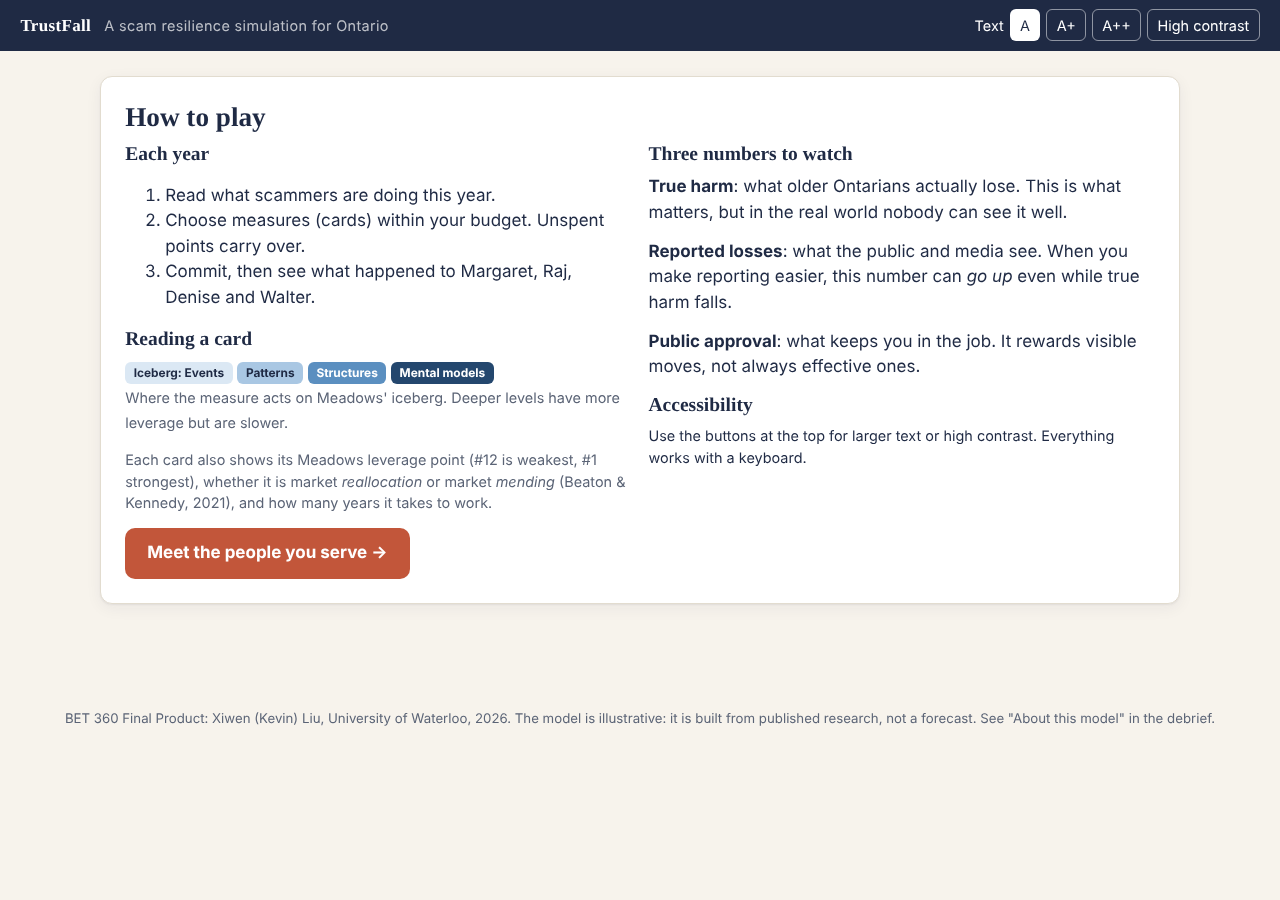
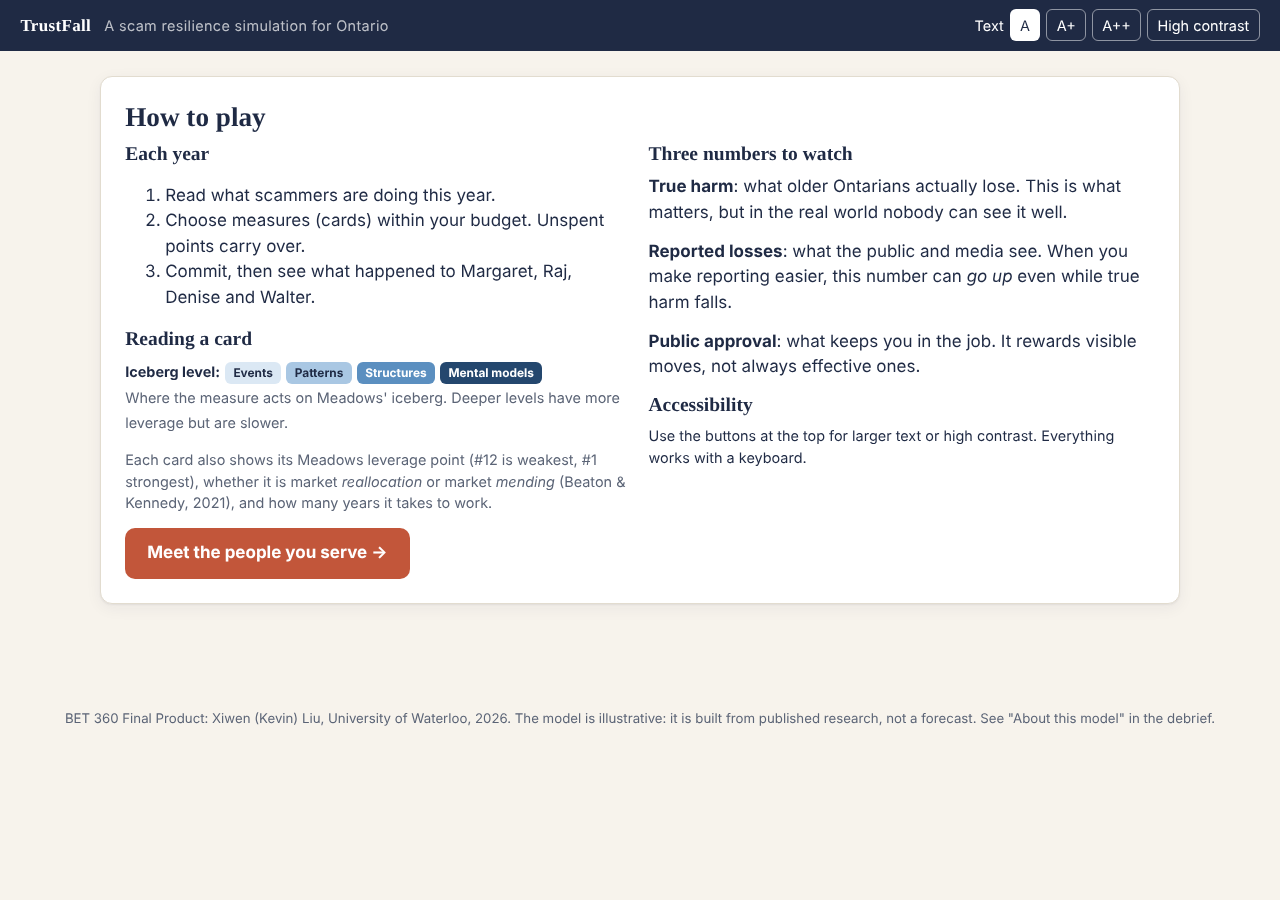
Fix iceberg legend labels on How to play screen
Claude-Session: https://claude.ai/code/session_01DS4ttpg1RXpHqy6czCv8Ho

Changed region(s): [[0.0938, 0.4044, 0.4375, 0.4356]]

diff --git a/index.html b/index.html
@@ -496,7 +496,7 @@ function screenHowTo() {
           <li>Commit, then see what happened to Margaret, Raj, Denise and Walter.</li>
         </ol>
         <h3>Reading a card</h3>
-        <p><span class="lvl Events">Iceberg: Events</span> <span class="lvl Patterns">Patterns</span> <span class="lvl Structures">Structures</span> <span class="lvl Mental">Mental models</span><br>
+        <p><span class="small"><b>Iceberg level:</b></span> <span class="lvl Events">Events</span> <span class="lvl Patterns">Patterns</span> <span class="lvl Structures">Structures</span> <span class="lvl Mental">Mental models</span><br>
         <span class="small muted">Where the measure acts on Meadows' iceberg. Deeper levels have more leverage but are slower.</span></p>
         <p class="small muted">Each card also shows its Meadows leverage point (#12 is weakest, #1 strongest), whether it is market <i>reallocation</i> or market <i>mending</i> (Beaton &amp; Kennedy, 2021), and how many years it takes to work.</p>
       </div>
